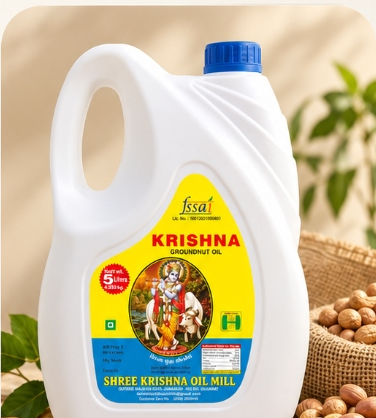
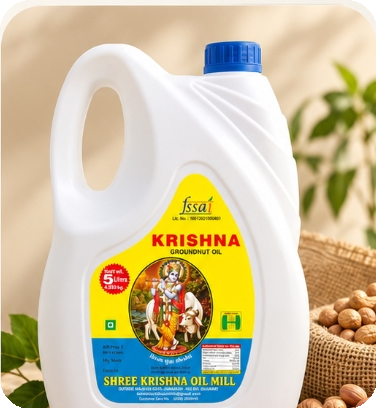
fix: replace reference image background with 100% pure CSS Warm Ivory gradient, vector SVG botanical line-art, and clean isolated product cans

diff --git a/components/krishna/BotanicalDecoration.tsx b/components/krishna/BotanicalDecoration.tsx
@@ -3,37 +3,199 @@ import React from "react";
 export const BotanicalDecoration: React.FC = () => {
   return (
     <>
-      {/* Top-Left: Botanical Cotton Illustration */}
-      <img
-        src="/assets/botanical-cotton-top.png"
-        alt=""
+      {/* Upper-Left: Botanical Cotton Plant Line-Art (Pure Vector SVG) */}
+      <svg
+        viewBox="0 0 160 180"
+        fill="none"
+        xmlns="http://www.w3.org/2000/svg"
+        className="absolute top-0 left-0 w-28 sm:w-36 md:w-44 pointer-events-none select-none z-0 opacity-75"
         aria-hidden="true"
-        className="absolute top-0 left-0 w-24 sm:w-32 md:w-36 pointer-events-none select-none opacity-80 z-0"
-      />
+      >
+        {/* Main Curved Stem */}
+        <path
+          d="M 5,-10 C 20,35 40,85 32,165"
+          stroke="#BD8665"
+          strokeWidth="1.2"
+          strokeLinecap="round"
+        />
+        {/* Branch 1 to Upper Cotton Boll */}
+        <path
+          d="M 22,40 C 45,45 75,38 105,48"
+          stroke="#BD8665"
+          strokeWidth="1.1"
+          strokeLinecap="round"
+        />
+        {/* Branch 2 to Lower Cotton Boll */}
+        <path
+          d="M 30,95 C 60,105 95,108 128,122"
+          stroke="#BD8665"
+          strokeWidth="1.1"
+          strokeLinecap="round"
+        />
+        {/* Open Cotton Boll 1 (Tufts & Bracts) */}
+        <path
+          d="M 105,48 C 100,42 98,34 104,28 C 110,22 120,24 125,30 C 131,24 140,26 143,33 C 146,40 142,48 136,52 C 140,58 138,68 130,70 C 122,72 114,67 112,60 C 105,62 98,56 105,48 Z"
+          stroke="#BD8665"
+          strokeWidth="1.1"
+          fill="#FAF5EE"
+          fillOpacity="0.4"
+        />
+        {/* Calyx Leaves for Boll 1 */}
+        <path
+          d="M 98,48 Q 112,50 115,55 M 102,40 Q 112,38 116,42 M 106,56 Q 116,58 118,63"
+          stroke="#BD8665"
+          strokeWidth="0.9"
+        />
+        {/* Open Cotton Boll 2 */}
+        <path
+          d="M 128,122 C 124,116 122,108 128,103 C 134,98 143,100 148,106 C 153,101 161,103 164,109 C 167,115 163,123 158,126 C 161,132 158,140 151,142 C 144,143 137,139 135,133 C 129,134 123,129 128,122 Z"
+          stroke="#BD8665"
+          strokeWidth="1.1"
+          fill="#FAF5EE"
+          fillOpacity="0.4"
+        />
+        {/* Delicate Cotton Leaves with Veins */}
+        <path
+          d="M 15,20 C 5,22 -2,12 8,5 C 20,0 28,12 15,20 Z"
+          stroke="#BD8665"
+          strokeWidth="1"
+          strokeLinejoin="round"
+        />
+        <path d="M 8,5 Q 14,12 15,20" stroke="#BD8665" strokeWidth="0.7" />
+        <path
+          d="M 28,75 C 42,70 54,80 48,92 C 40,102 26,90 28,75 Z"
+          stroke="#BD8665"
+          strokeWidth="1"
+          strokeLinejoin="round"
+        />
+        <path d="M 28,75 Q 40,82 48,92" stroke="#BD8665" strokeWidth="0.7" />
+      </svg>
 
-      {/* Top-Right: Botanical Groundnut/Peanut Illustration */}
-      <img
-        src="/assets/botanical-peanut-top.png"
-        alt=""
+      {/* Upper-Right: Botanical Groundnut/Peanut Plant Line-Art (Pure Vector SVG) */}
+      <svg
+        viewBox="0 0 160 180"
+        fill="none"
+        xmlns="http://www.w3.org/2000/svg"
+        className="absolute top-0 right-0 w-28 sm:w-36 md:w-44 pointer-events-none select-none z-0 opacity-75"
         aria-hidden="true"
-        className="absolute top-0 right-0 w-24 sm:w-32 md:w-36 pointer-events-none select-none opacity-80 z-0"
-      />
+      >
+        {/* Main Curved Peanut Vine */}
+        <path
+          d="M 155,-10 C 140,35 120,85 128,165"
+          stroke="#BD8665"
+          strokeWidth="1.2"
+          strokeLinecap="round"
+        />
+        {/* Branch 1 */}
+        <path
+          d="M 138,40 C 115,45 85,38 55,48"
+          stroke="#BD8665"
+          strokeWidth="1.1"
+          strokeLinecap="round"
+        />
+        {/* Branch 2 to Peanut Pod */}
+        <path
+          d="M 130,95 C 100,105 65,110 35,124"
+          stroke="#BD8665"
+          strokeWidth="1.1"
+          strokeLinecap="round"
+        />
+        {/* Textured Peanut Pod (with waist constriction) */}
+        <path
+          d="M 52,48 C 45,44 32,45 25,52 C 18,59 20,68 28,72 C 24,78 26,88 34,92 C 42,96 52,92 56,84 C 54,77 50,72 52,65 C 56,58 56,52 52,48 Z"
+          stroke="#BD8665"
+          strokeWidth="1.1"
+          fill="#FAF5EE"
+          fillOpacity="0.4"
+        />
+        {/* Pod Surface Reticulation Lines */}
+        <path
+          d="M 28,54 Q 38,58 48,54 M 26,64 Q 38,68 50,63 M 28,74 Q 40,78 48,76 M 34,84 Q 44,86 52,82"
+          stroke="#BD8665"
+          strokeWidth="0.8"
+          strokeLinecap="round"
+        />
+        {/* Paired Peanut Leaflets */}
+        <path
+          d="M 115,30 C 102,20 90,26 95,38 C 100,50 114,44 115,30 Z"
+          stroke="#BD8665"
+          strokeWidth="1"
+        />
+        <path d="M 115,30 Q 104,34 95,38" stroke="#BD8665" strokeWidth="0.7" />
+        <path
+          d="M 125,75 C 110,68 98,75 104,88 C 110,100 124,92 125,75 Z"
+          stroke="#BD8665"
+          strokeWidth="1"
+        />
+        <path d="M 125,75 Q 112,81 104,88" stroke="#BD8665" strokeWidth="0.7" />
+        <path
+          d="M 145,20 C 155,22 162,12 152,5 C 140,0 132,12 145,20 Z"
+          stroke="#BD8665"
+          strokeWidth="1"
+        />
+      </svg>
 
-      {/* Bottom-Left: Cotton Branch Sketch */}
-      <img
-        src="/assets/botanical-cotton-bottom.png"
-        alt=""
+      {/* Lower-Left: Minimal Delicate Leaf Sprig (Pure Vector SVG) */}
+      <svg
+        viewBox="0 0 120 100"
+        fill="none"
+        xmlns="http://www.w3.org/2000/svg"
+        className="absolute bottom-0 left-0 w-20 sm:w-28 md:w-32 pointer-events-none select-none z-0 opacity-70"
         aria-hidden="true"
-        className="absolute bottom-0 left-0 w-20 sm:w-28 md:w-32 pointer-events-none select-none opacity-75 z-0"
-      />
+      >
+        <path
+          d="M -5,105 C 15,75 35,55 75,45"
+          stroke="#BD8665"
+          strokeWidth="1.1"
+          strokeLinecap="round"
+        />
+        <path
+          d="M 30,70 C 22,58 30,46 42,50 C 52,54 45,68 30,70 Z"
+          stroke="#BD8665"
+          strokeWidth="0.9"
+        />
+        <path
+          d="M 52,55 C 50,40 62,34 72,40 C 80,48 70,60 52,55 Z"
+          stroke="#BD8665"
+          strokeWidth="0.9"
+        />
+        <path
+          d="M 75,45 C 80,32 94,30 98,40 C 100,50 88,54 75,45 Z"
+          stroke="#BD8665"
+          strokeWidth="0.9"
+        />
+      </svg>
 
-      {/* Bottom-Right: Peanuts Botanical Cluster Sketch */}
-      <img
-        src="/assets/botanical-peanut-bottom.png"
-        alt=""
+      {/* Lower-Right: Minimal Groundnut Sprig (Pure Vector SVG) */}
+      <svg
+        viewBox="0 0 120 100"
+        fill="none"
+        xmlns="http://www.w3.org/2000/svg"
+        className="absolute bottom-0 right-0 w-20 sm:w-28 md:w-32 pointer-events-none select-none z-0 opacity-70"
         aria-hidden="true"
-        className="absolute bottom-0 right-0 w-20 sm:w-28 md:w-32 pointer-events-none select-none opacity-75 z-0"
-      />
+      >
+        <path
+          d="M 125,105 C 105,75 85,55 45,45"
+          stroke="#BD8665"
+          strokeWidth="1.1"
+          strokeLinecap="round"
+        />
+        <path
+          d="M 90,70 C 98,58 90,46 78,50 C 68,54 75,68 90,70 Z"
+          stroke="#BD8665"
+          strokeWidth="0.9"
+        />
+        <path
+          d="M 68,55 C 70,40 58,34 48,40 C 40,48 50,60 68,55 Z"
+          stroke="#BD8665"
+          strokeWidth="0.9"
+        />
+        <path
+          d="M 45,45 C 40,32 26,30 22,40 C 20,50 32,54 45,45 Z"
+          stroke="#BD8665"
+          strokeWidth="0.9"
+        />
+      </svg>
     </>
   );
 };

diff --git a/components/krishna/ReligiousHeading.tsx b/components/krishna/ReligiousHeading.tsx
@@ -19,13 +19,33 @@ export const ReligiousHeading: React.FC<ReligiousHeadingProps> = ({
         {/* Left Thin Copper Divider */}
         <span className="w-10 sm:w-16 h-[1px] bg-[#BD8665] opacity-80"></span>
 
-        {/* Traditional Floral Motif from Reference */}
-        <img
-          src="/assets/ornament.png"
-          alt=""
+        {/* Traditional Symmetrical Floral Motif (Pure Vector SVG) */}
+        <svg
+          viewBox="0 0 40 18"
+          fill="none"
+          xmlns="http://www.w3.org/2000/svg"
+          className="h-3 sm:h-3.5 md:h-4 w-auto select-none shrink-0"
           aria-hidden="true"
-          className="h-3 sm:h-3.5 md:h-4 w-auto object-contain select-none opacity-90"
-        />
+        >
+          {/* Central Flame/Lotus Petal */}
+          <path
+            d="M 20,2 C 17,7 18,13 20,16 C 22,13 23,7 20,2 Z"
+            fill="#B83B20"
+          />
+          {/* Left Curving Petal */}
+          <path
+            d="M 19,8 C 14,7 10,10 8,14 C 12,15 16,13 19,10 Z"
+            fill="#B83B20"
+          />
+          {/* Right Curving Petal */}
+          <path
+            d="M 21,8 C 26,7 30,10 32,14 C 28,15 24,13 21,10 Z"
+            fill="#B83B20"
+          />
+          {/* Outer Accents */}
+          <circle cx="4" cy="13" r="1.4" fill="#B83B20" />
+          <circle cx="36" cy="13" r="1.4" fill="#B83B20" />
+        </svg>
 
         {/* Right Thin Copper Divider */}
         <span className="w-10 sm:w-16 h-[1px] bg-[#BD8665] opacity-80"></span>

diff --git a/components/krishna/ProductImage.tsx b/components/krishna/ProductImage.tsx
@@ -7,7 +7,7 @@ interface ProductImageProps {
 
 export const ProductImage: React.FC<ProductImageProps> = ({ src, alt }) => {
   return (
-    <div className="w-full aspect-[376/418] rounded-2xl sm:rounded-[28px] overflow-hidden select-none block bg-[#F7F3EB]">
+    <div className="w-full aspect-[376/408] rounded-2xl sm:rounded-[28px] overflow-hidden select-none block bg-[#F0DDC9]">
       <img
         src={src}
         alt={alt}
